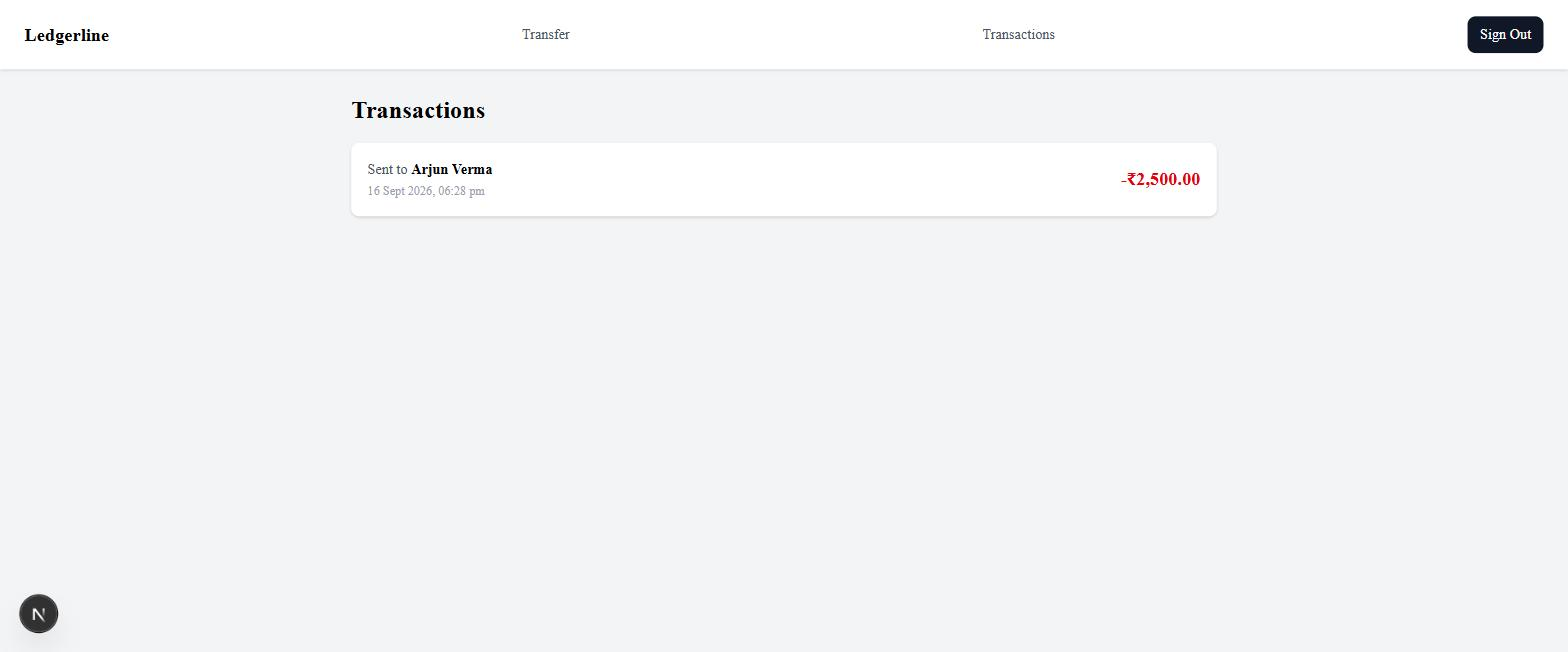
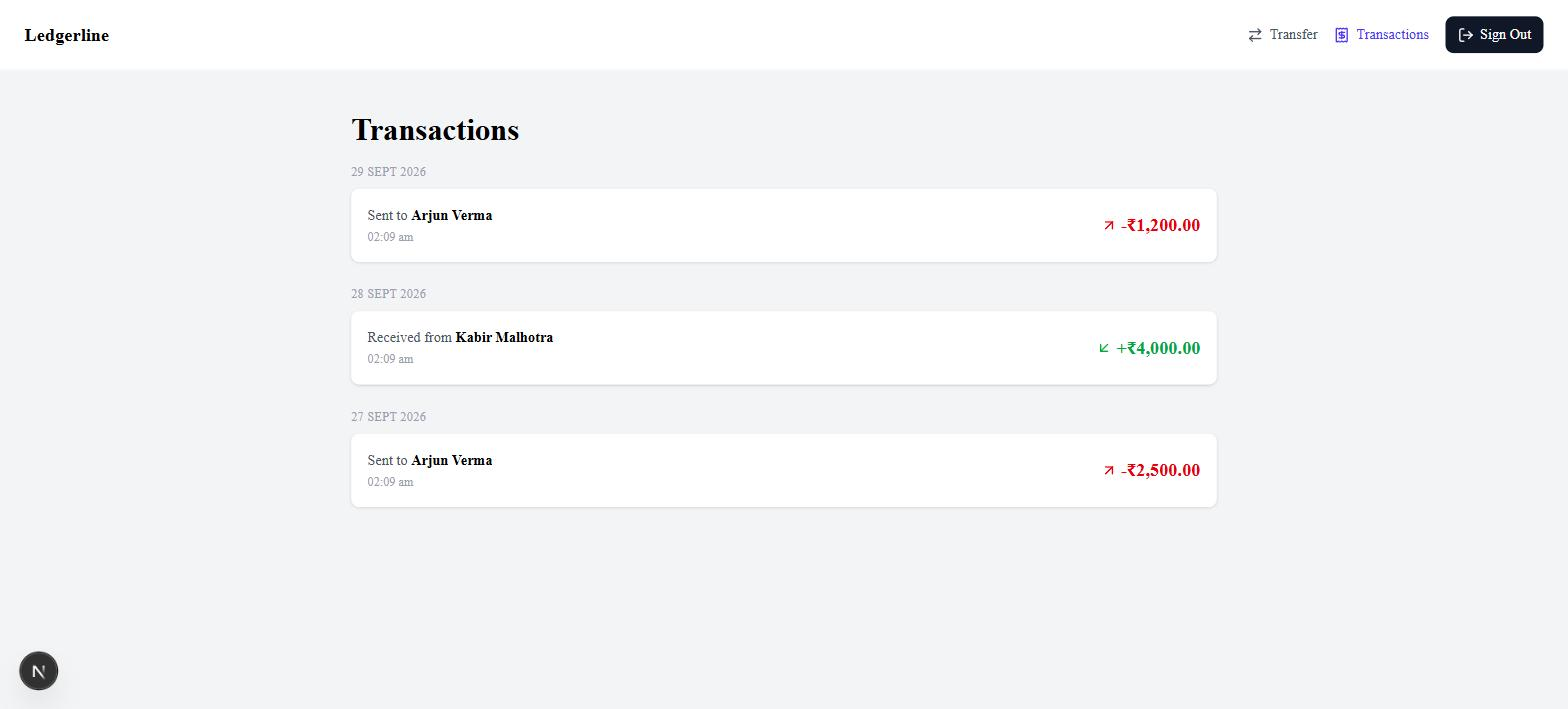
Update README with new screenshots and current feature set

diff --git a/README.md b/README.md
@@ -6,29 +6,40 @@ A wallet/payments app built to demonstrate concurrency-safe money transfers, ide
 
 **Screenshots:**
 
-| Dashboard | Transfer | Transaction history |
-|---|---|---|
-| ![Dashboard showing wallet balance](docs/screenshots/dashboard.png) | ![Transfer money form](docs/screenshots/transfer.jpg) | ![Transaction list with a completed transfer](docs/screenshots/transactions.jpg) |
+| Dashboard | Transactions (grouped by day) |
+|---|---|
+| ![Dashboard showing wallet balance and quick actions](docs/screenshots/dashboard.jpg) | ![Transaction list grouped by date, with signed colored amounts](docs/screenshots/transactions.jpg) |
+
+| Transaction detail | Transfer |
+|---|---|
+| ![Transaction detail dialog with counterparty, amount, and full timestamp](docs/screenshots/transaction-detail.jpg) | ![Transfer money form](docs/screenshots/transfer.jpg) |
+
+| Transfer confirmation |
+|---|
+| ![Confirmation dialog showing the exact amount and recipient before committing](docs/screenshots/transfer-confirm.jpg) |
 
 ## What it does
 
-- Sign up, sign in, sign out — JWT access tokens + rotating refresh tokens in httpOnly cookies, with silent token refresh so an expired access token never boots you back to the login screen mid-session.
-- See your wallet balance on a dashboard, fetched server-side.
-- Transfer money to another user by email — validated, rate-limited, and safe to retry (double-clicking, or a flaky network retry, never executes the transfer twice).
-- Browse your transaction history with infinite scroll, safe against duplicates or gaps even while new transactions are being created concurrently in another tab.
-- Every failure mode (insufficient balance, invalid recipient, expired session, rate limit) shows a clear, specific message — inline on the relevant field, as a whole-form banner, or as a toast, never a blank screen or raw error text.
+- Sign up, sign in, sign out — JWT access tokens + rotating refresh tokens in httpOnly cookies, with silent token refresh so an expired access token never boots you back to the login screen mid-session. Google OAuth ("Continue with Google") is also supported, including account linking onto an existing password-based account when Google's own `email_verified` claim confirms the email.
+- See your wallet balance on a dashboard, fetched server-side, with quick actions to transfer or view transaction history.
+- Transfer money to another user by email — validated, rate-limited, safe to retry (double-clicking, or a flaky network retry, never executes the transfer twice), and gated behind a confirmation dialog showing the exact amount and recipient before anything is sent.
+- Browse your transaction history, grouped by day and paginated with a "Load more" button (cursor-based, safe against duplicates or gaps even while new transactions are being created concurrently in another tab) — click any row for a detail view with the full counterparty name, signed amount, full timestamp, and transaction ID.
+- Confirm before signing out, instead of it firing immediately on click.
+- Every failure mode (insufficient balance, invalid recipient, expired session, rate limit) shows a clear, specific message — inline on the relevant field, as a whole-form banner, or as a toast, never a blank screen or raw error text. Every submit action shows real loading feedback (spinners, disabled states, skeleton loading) rather than a silent pause.
 
 ## Tech stack
 
 - **Next.js 16** (App Router, Turbopack) + TypeScript
 - **PostgreSQL** (Neon) + **Prisma 7** (driver adapter, `prisma-client` generator)
 - **Upstash Redis** — idempotency keys and sliding-window rate limiting
-- **JWT** (jsonwebtoken) + **bcrypt** — custom auth, no third-party auth provider
+- **JWT** (jsonwebtoken) + **bcrypt** — custom password auth, no third-party auth provider for the core flow
+- **Google OAuth 2.0** (`google-auth-library`) — "Continue with Google," with authorization-code-grant flow, CSRF `state` validation, `id_token` verification, and account linking onto an existing verified-email account
 - **Zod + react-hook-form** — one schema per form, shared between client-side `zodResolver` validation and server-side route-handler validation
 - **TanStack Query** — `useInfiniteQuery` for the transaction list
-- **shadcn/ui + Tailwind CSS** — toast notifications
-- **Vitest** — concurrency unit tests on the transfer logic, against a real database
+- **shadcn/ui (Base UI) + Tailwind CSS** — toast notifications, and `AlertDialog`/`Dialog` for the sign-out, transfer, and transaction-detail confirmations
+- **Vitest** — concurrency unit tests on the transfer logic, against a real database, run on every push/PR via **GitHub Actions**
 - **Playwright** — end-to-end test covering the full signup → transfer → balance-update → transaction-list loop
+- **Vercel Analytics** — cookieless, no consent banner needed
 
 ## Setup
 
@@ -65,6 +76,8 @@ npm run test:e2e    # Playwright — full browser e2e flow
 **2. Server Components by default; Client Components only where interactivity actually requires them.** The dashboard balance is fetched directly from the database in a Server Component and streamed as HTML — no client-side spinner for the single most important number on the page. The transfer form, by contrast, is a Client Component, since it's inherently interactive (form state, validation feedback, a client-generated idempotency key that must survive a failed submit and only regenerate on success). The transaction list splits the difference: the first page renders server-side for a fast initial paint, and a Client Component takes over from there for infinite scroll via `useInfiniteQuery`.
 
 **3. A consistent API error shape, closing a real bug rather than just adding polish.** Every route returns `{error: string, fieldErrors?: Record<string, string[]>}`. This wasn't just a nice-to-have — the original code had validation failures return Zod's raw flattened-error object directly as `error`, which every form's `<p>{formError}</p>` would have tried to render as a string, throwing "Objects are not valid as a React child" the moment server-side validation ever actually caught something client-side validation didn't. Standardizing the shape fixed a live crash bug, not just tidied up the response format.
+
+**4. The transfer form stages, then confirms — without touching the idempotency guarantee underneath.** Submitting the transfer form no longer fires the request immediately; it validates the input and opens a confirmation dialog showing the exact amount and recipient, and only the dialog's own confirm action performs the `fetch`. The same client-generated idempotency key, the same field-error mapping, and the same success/redirect path from before are reused untouched inside that confirm handler — the dialog is a UI-level staging step in front of an already-correct request, not a parallel code path that could drift out of sync with it.
 
 ## Known limitations
 
